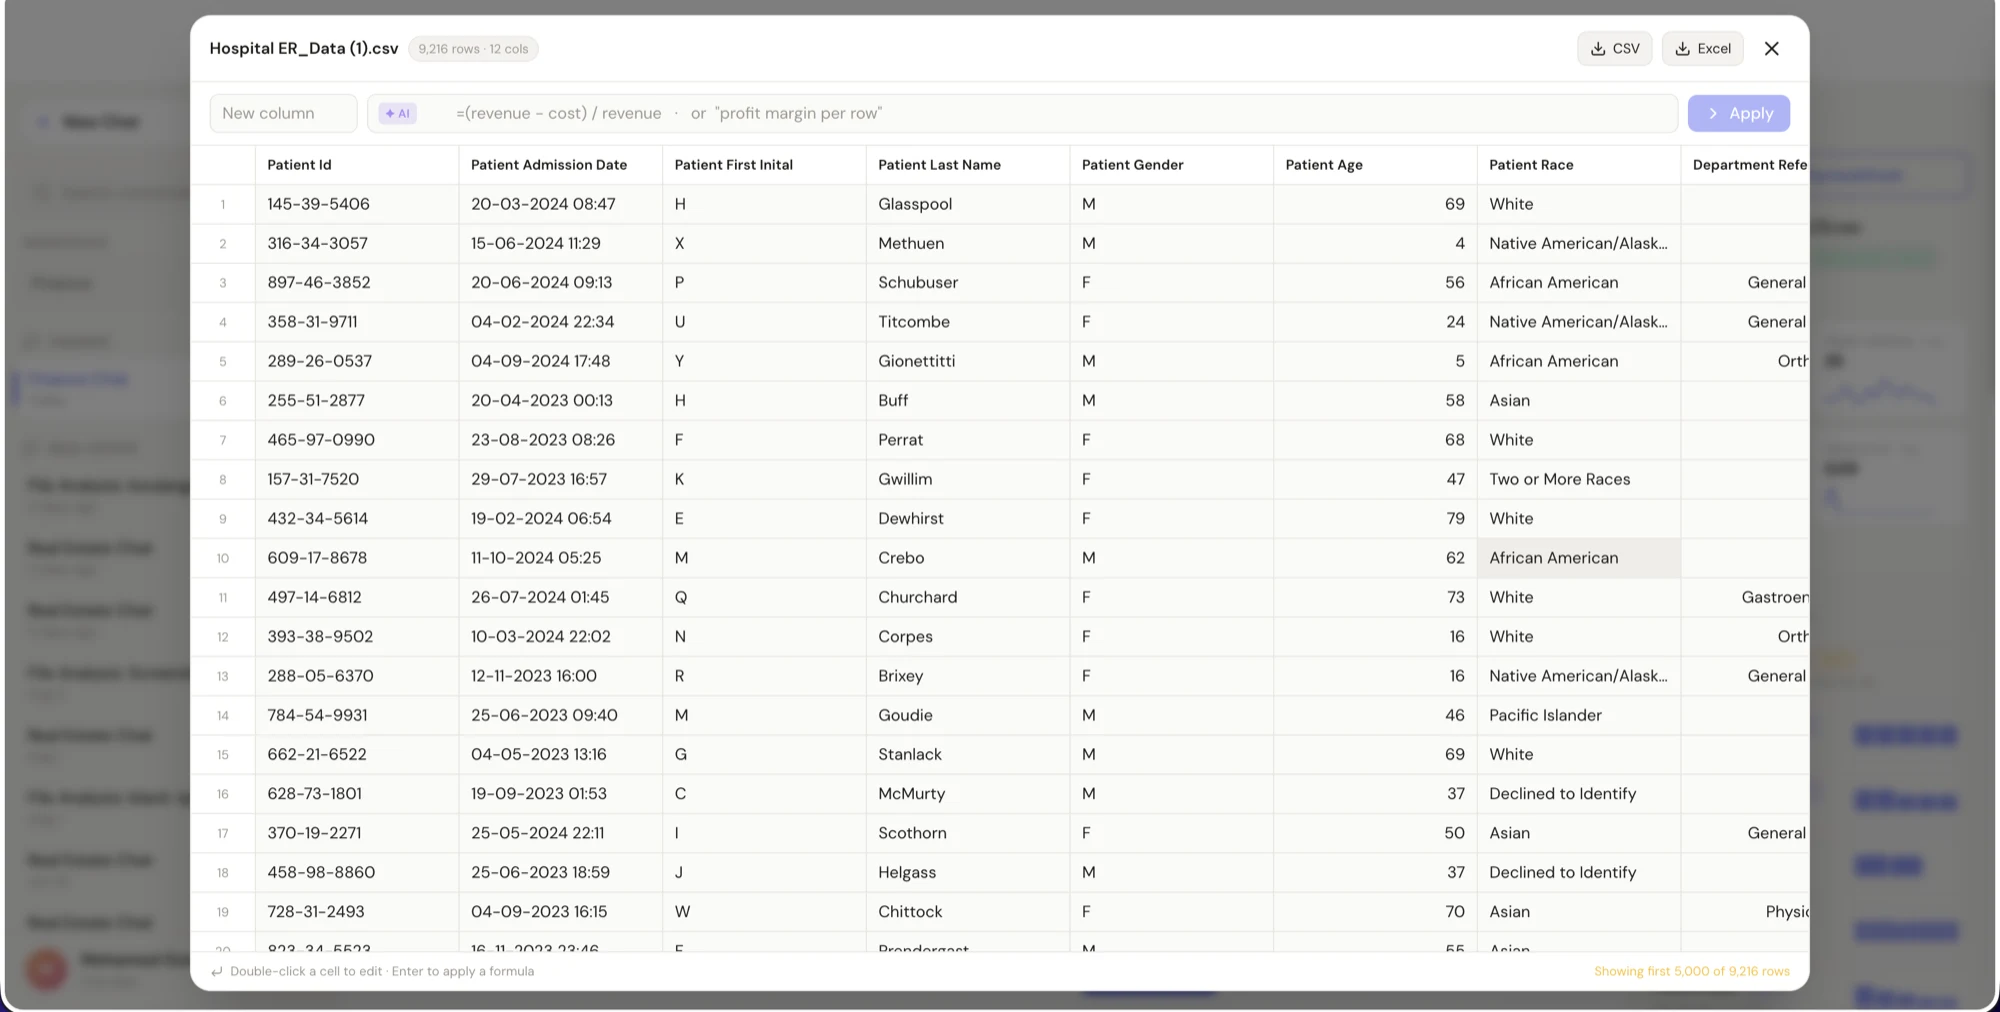
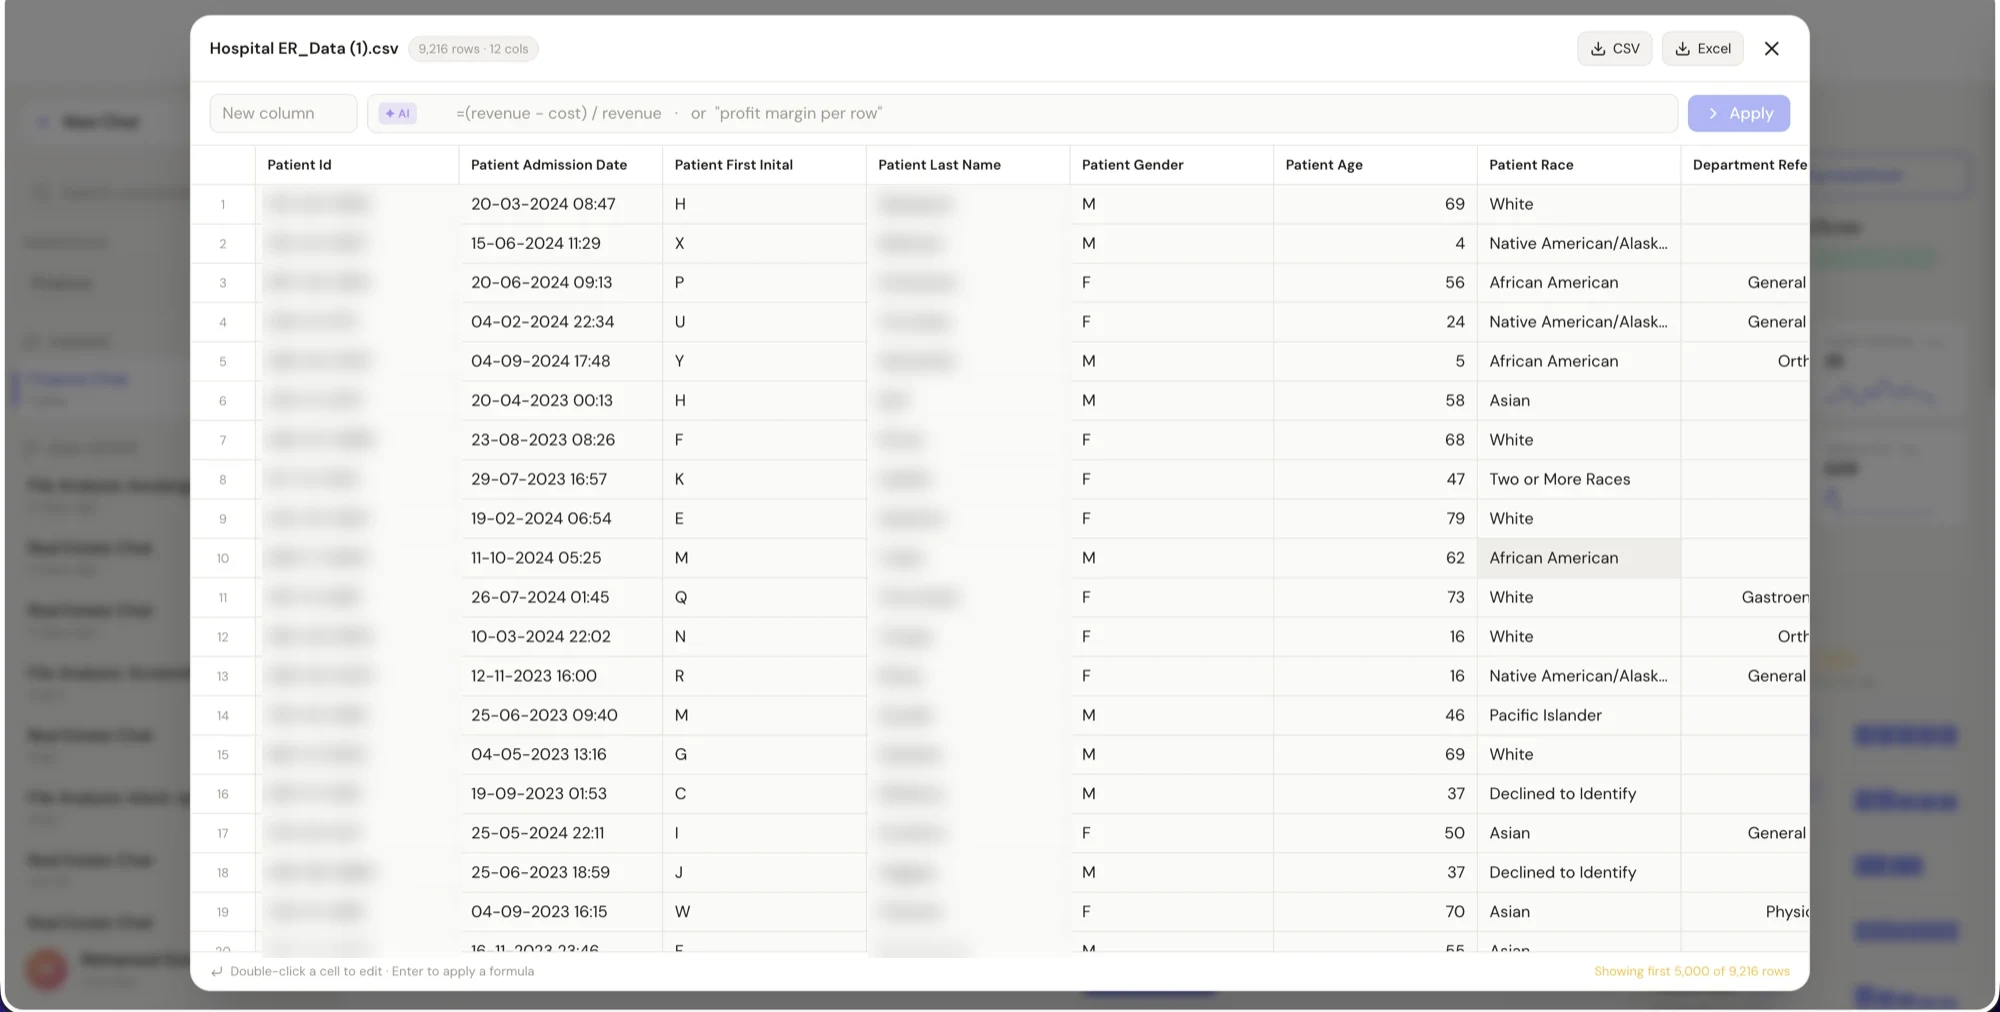
blur patient identifiers in the Analytics Depot spreadsheet shot
The published screenshot showed a Hospital ER_Data.csv with a Patient Id
column in SSN format next to Patient Last Name. The dataset is synthetic,
but on a public portfolio it reads as leaked patient data, which is a
liability rather than a credential. Both columns are now blurred, headers
stay legible, and the caption says the redaction is deliberate.

Also varied the repeated '100% organic' phrasing across the stats band
and About so the same words don't land three times in one scroll.

diff --git a/portfolio-v1/src/components/about/About.tsx b/portfolio-v1/src/components/about/About.tsx
@@ -177,7 +177,7 @@ export default function About() {
                   <Store className="h-4 w-4 text-primary mt-0.5 shrink-0" />
                   <span className="text-sm text-muted-foreground">
                     <strong>Co-founded DzStore:</strong> 1,100+ stores & 25+
-                    on paid plans in 3 months live, 100% organic
+                    on paid plans in 3 months live, all from search
                   </span>
                 </div>
                 <div className="flex items-start gap-2.5">

diff --git a/portfolio-v1/src/components/projects/Projects.tsx b/portfolio-v1/src/components/projects/Projects.tsx
@@ -85,7 +85,7 @@ export default function Projects() {
         {
           src: "/projects/analytics-depot/app-spreadsheet-view.webp",
           caption:
-            "The built-in spreadsheet view over 9,000+ rows, with an AI formula bar and CSV/Excel export.",
+            "The built-in spreadsheet view over 9,000+ rows, with an AI formula bar and CSV/Excel export. Identifier columns are blurred here.",
         },
       ],
       description: [

diff --git a/portfolio-v1/src/components/stats/StatsSection.tsx b/portfolio-v1/src/components/stats/StatsSection.tsx
@@ -35,7 +35,7 @@ const stats = [
     icon: <Users className="h-6 w-6 text-blue-500" />,
     value: "1,100+",
     label: "DzStore Stores",
-    description: "Live merchant stores, 100% organic",
+    description: "Live merchant stores, zero ad spend",
   },
   {
     icon: <BadgeDollarSign className="h-6 w-6 text-amber-500" />,
